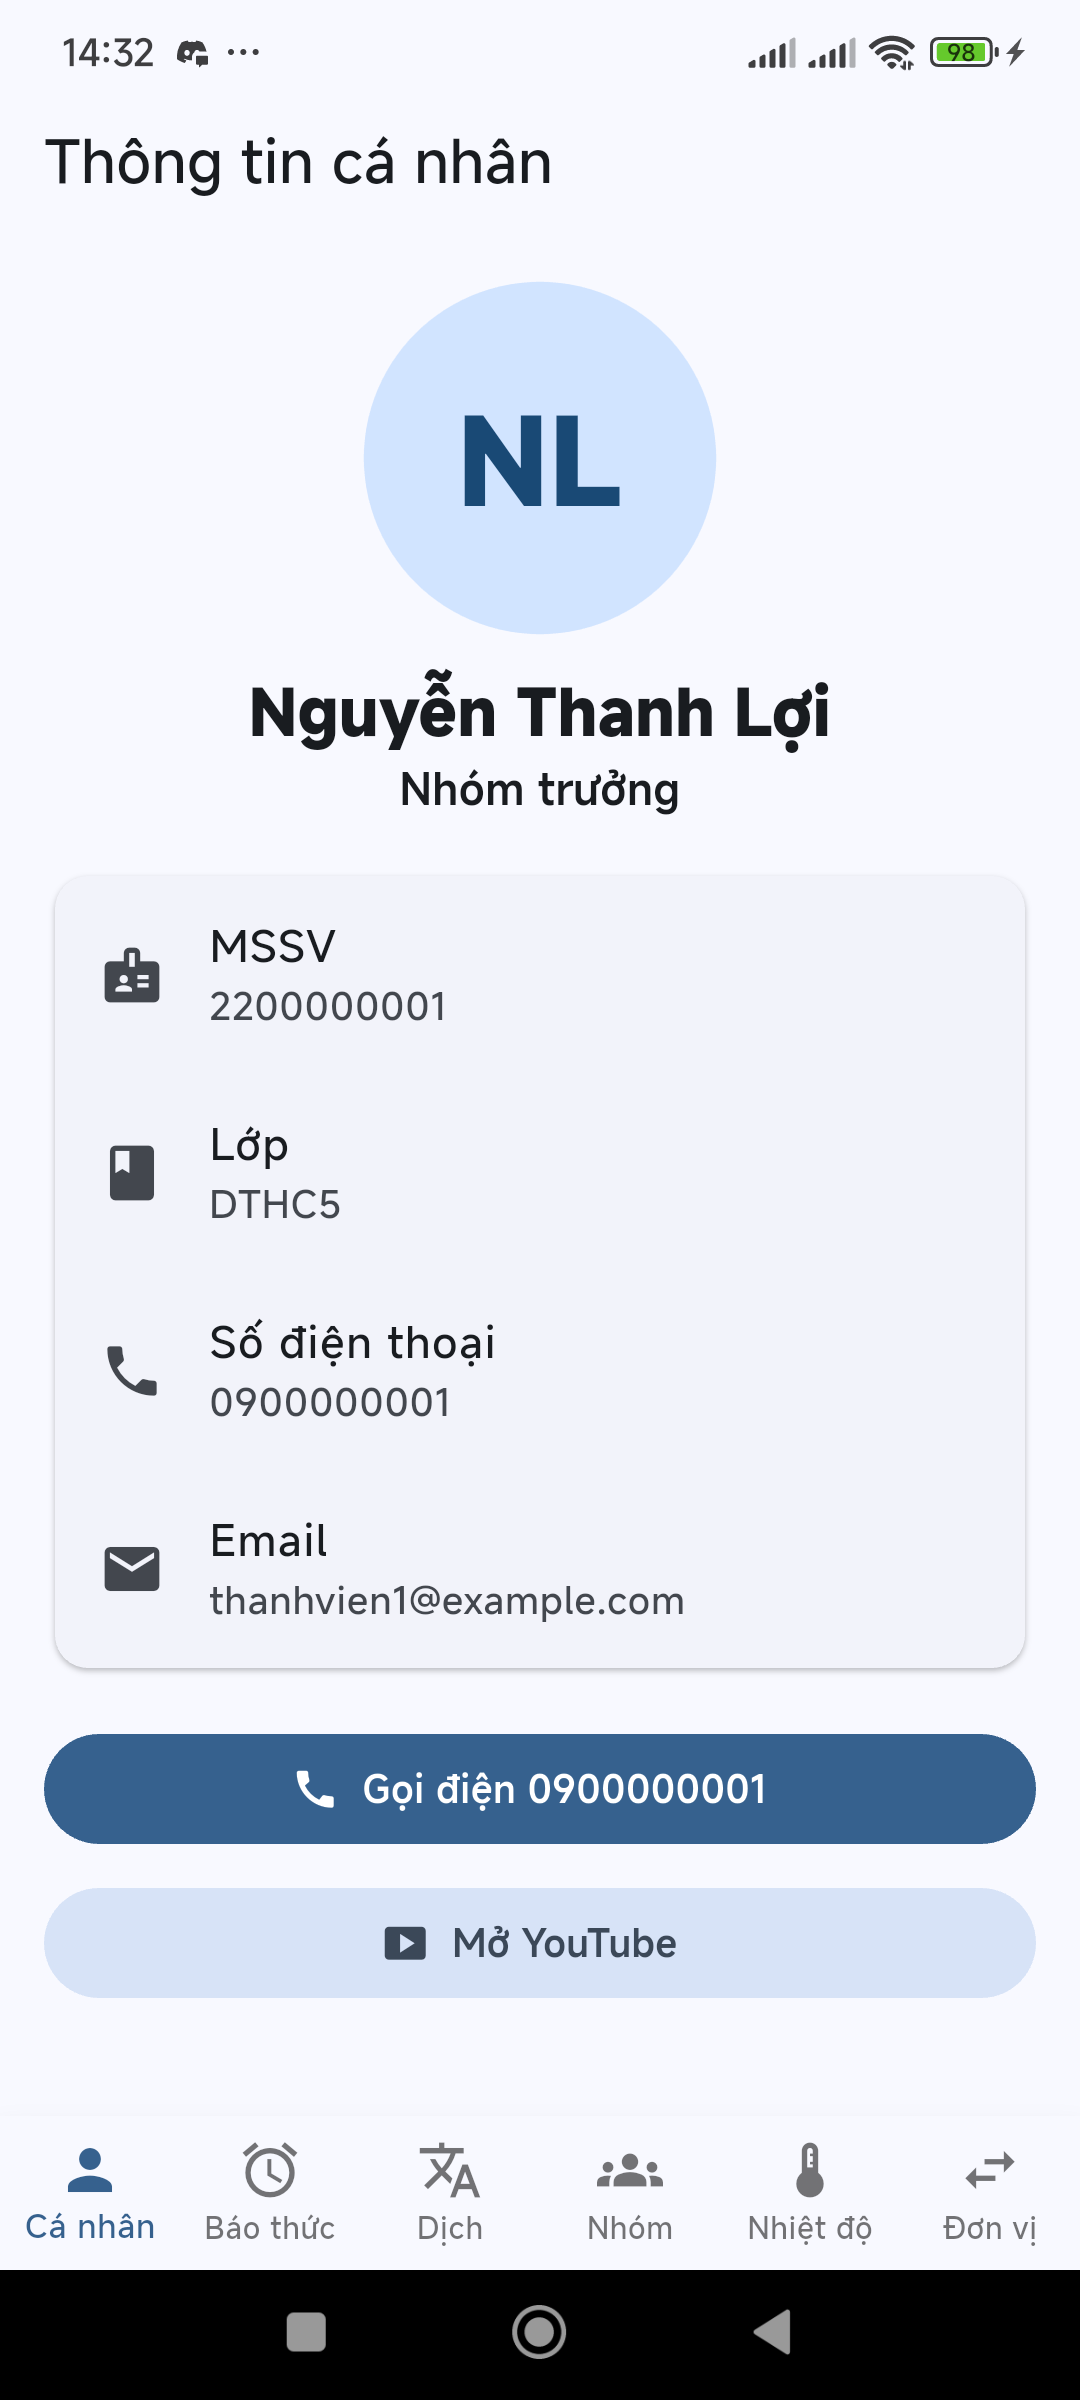
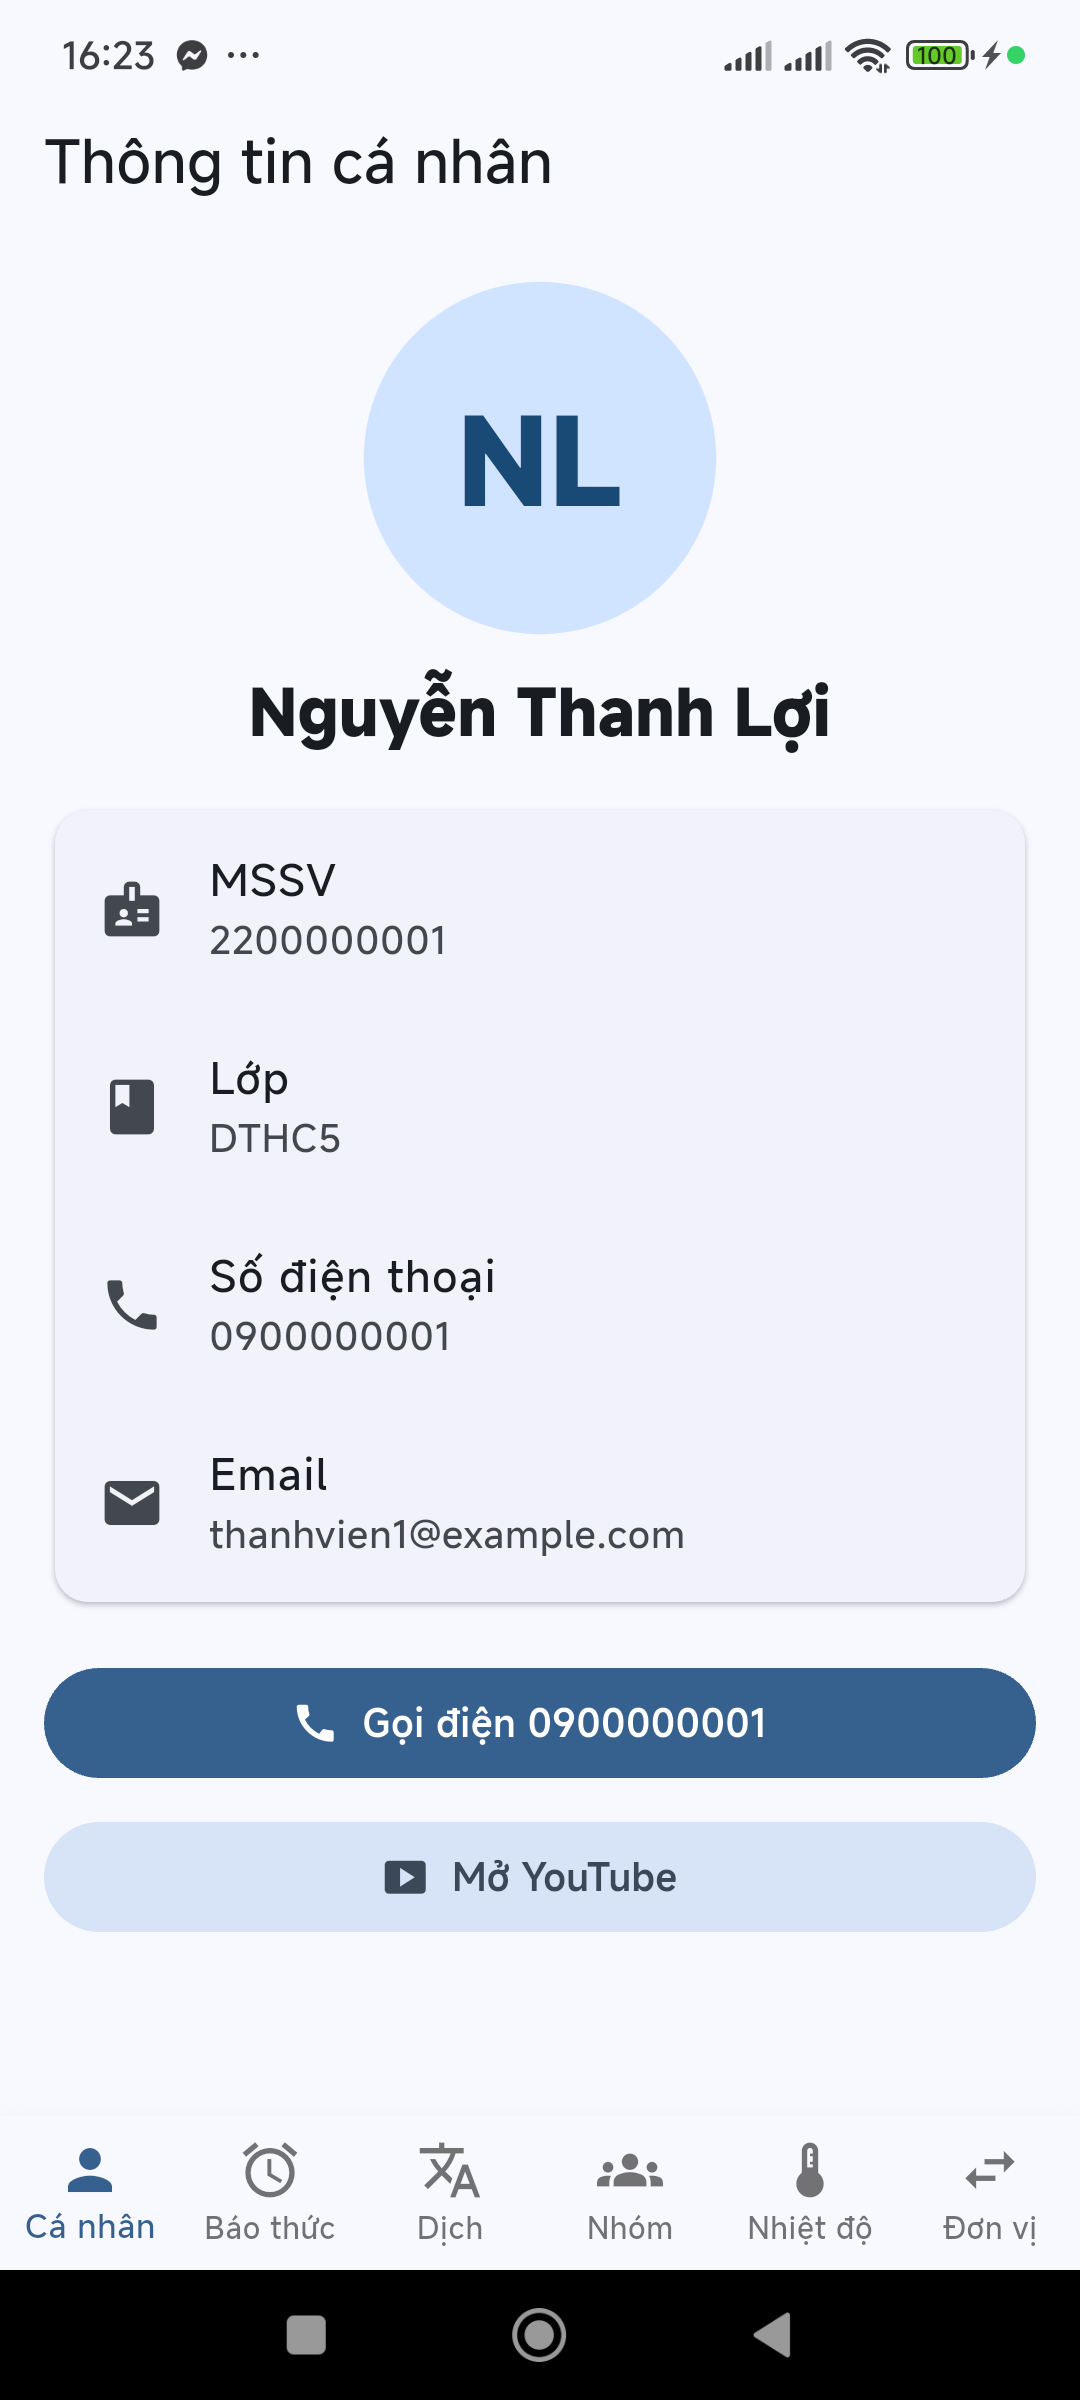
refactor: remove role (vai tro) field from app, tool and docs

diff --git a/tool/doi_thong_tin.dart b/tool/doi_thong_tin.dart
@@ -1,6 +1,6 @@
 // TOOL ĐỔI THÔNG TIN NGƯỜI NỘP BÀI
 //
-// Hỏi lần lượt từng trường (họ tên, MSSV, SĐT, email, lớp, vai trò, ảnh,
+// Hỏi lần lượt từng trường (họ tên, MSSV, SĐT, email, lớp, ảnh,
 // tên/email git), kiểm tra hợp lệ, rồi thay toàn bộ danh tính app:
 //   members.json -> lib/config/*.dart, tên app, applicationId, MainActivity...
 // Cuối cùng chạy `flutter analyze` để chắc chắn không lỗi.
@@ -132,7 +132,6 @@ Future<void> main(List<String> args) async {
   _row('SĐT', me['sdt']);
   _row('Email', me['email']);
   _row('Lớp', me['lop']);
-  _row('Vai trò', me['vai_tro']);
   _row(
     'Ảnh',
     photoSrc == null || photoSrc.isEmpty
@@ -161,6 +160,10 @@ Future<void> main(List<String> args) async {
     _installPhoto(photoSrc, me);
   }
   data['current'] = me['mssv'];
+  // Bỏ trường "vai_tro" của members.json bản cũ (đã không dùng nữa).
+  for (final m in members) {
+    m.remove('vai_tro');
+  }
   data['members'] = members;
   _write(_membersFile, '${const JsonEncoder.withIndent('  ').convert(data)}\n');
   stdout.writeln('  ✓ ghi members.json');
@@ -256,11 +259,6 @@ Map<String, dynamic> _askMember(
   out['lop'] = _ask(
     'Lớp',
     current: m['lop'] as String?,
-    check: checkNotEmpty,
-  ).trim();
-  out['vai_tro'] = _ask(
-    'Vai trò',
-    current: (m['vai_tro'] as String?) ?? 'Thành viên',
     check: checkNotEmpty,
   ).trim();
   return out;
@@ -400,7 +398,6 @@ List<String> _validateAll(Map<String, dynamic> n) {
   c('sdt', checkSdt);
   c('email', checkEmail);
   c('lop', checkNotEmpty);
-  c('vai_tro', checkNotEmpty);
   return errors;
 }
 
@@ -412,7 +409,6 @@ Map<String, dynamic> _normalize(Map<String, dynamic> n) {
     'sdt': normalizeSdt(n['sdt'] as String),
     'email': (n['email'] as String).trim(),
     'lop': (n['lop'] as String).trim(),
-    'vai_tro': (n['vai_tro'] as String).trim(),
     'anh': _existingPhoto(mssv) ?? '$_photoDir/$mssv.jpg',
   };
 }
@@ -475,9 +471,7 @@ void _printTeam(List<Map<String, dynamic>> members, String? current) {
   for (var i = 0; i < members.length; i++) {
     final m = members[i];
     final mark = m['mssv'] == current ? '  ← người nộp' : '';
-    stdout.writeln(
-      '  ${i + 1}. ${m['mssv']}  ${m['ho_ten']}  (${m['vai_tro']})$mark',
-    );
+    stdout.writeln('  ${i + 1}. ${m['mssv']}  ${m['ho_ten']}$mark');
   }
 }
 

diff --git a/tool/list_packages.dart b/tool/list_packages.dart
@@ -43,7 +43,9 @@ void main() {
     final link = version == 'SDK'
         ? '`$name`'
         : '[`$name`](https://pub.dev/packages/$name)';
-    final usage = _usage[name] ?? '_(chưa ghi — thêm vào `_usage` trong tool/list_packages.dart)_';
+    final usage =
+        _usage[name] ??
+        '_(chưa ghi — thêm vào `_usage` trong tool/list_packages.dart)_';
     rows.writeln('| $link | $version | $usage | $kind |');
   }
 
@@ -54,7 +56,8 @@ void main() {
     add(d, 'dev_dependency');
   }
 
-  final block = '$_start\n'
+  final block =
+      '$_start\n'
       '<!-- Sinh tự động bởi `dart run tool/list_packages.dart`, đừng sửa tay. -->\n'
       '${rows.toString().trimRight()}\n'
       '$_end';
@@ -68,8 +71,10 @@ void main() {
   }
   readme.writeAsStringSync(text);
   stdout.writeln(rows);
-  stdout.writeln('✓ Đã cập nhật bảng package trong README.md '
-      '(${deps.length} dependency, ${devDeps.length} dev_dependency).');
+  stdout.writeln(
+    '✓ Đã cập nhật bảng package trong README.md '
+    '(${deps.length} dependency, ${devDeps.length} dev_dependency).',
+  );
 }
 
 /// Tên các package trực tiếp trong mục [section] của pubspec.yaml.

diff --git a/tool/switch_member.dart b/tool/switch_member.dart
@@ -37,7 +37,7 @@ void main(List<String> args) async {
     exit(1);
   }
 
-  for (final key in ['ho_ten', 'mssv', 'sdt', 'email', 'lop', 'vai_tro']) {
+  for (final key in ['ho_ten', 'mssv', 'sdt', 'email', 'lop']) {
     if ((target[key] ?? '').toString().trim().isEmpty) {
       stderr.writeln(
         'Thành viên $mssv thiếu trường "$key" trong $_membersFile.',
@@ -230,7 +230,6 @@ $indent  mssv: ${_dartStr(m['mssv'])},
 $indent  sdt: ${_dartStr(m['sdt'])},
 $indent  email: ${_dartStr(m['email'])},
 $indent  lop: ${_dartStr(m['lop'])},
-$indent  vaiTro: ${_dartStr(m['vai_tro'])},
 $indent  anh: ${hasPhoto ? _dartStr(anh) : 'null'},
 $indent)''';
 }

diff --git a/lib/config/team_members.dart b/lib/config/team_members.dart
@@ -11,7 +11,6 @@ const teamMembers = <Member>[
     sdt: '0900000001',
     email: 'thanhvien1@example.com',
     lop: 'DTHC5',
-    vaiTro: 'Nhóm trưởng',
     anh: null,
   ),
   Member(
@@ -20,7 +19,6 @@ const teamMembers = <Member>[
     sdt: '0900000002',
     email: 'thanhvien2@example.com',
     lop: 'DTHC5',
-    vaiTro: 'Thành viên',
     anh: null,
   ),
   Member(
@@ -29,7 +27,6 @@ const teamMembers = <Member>[
     sdt: '0900000003',
     email: 'thanhvien3@example.com',
     lop: 'DTHC5',
-    vaiTro: 'Thành viên',
     anh: null,
   ),
 ];

diff --git a/lib/features/team/team_screen.dart b/lib/features/team/team_screen.dart
@@ -101,12 +101,9 @@ class _MemberPage extends StatelessWidget {
                   fontWeight: FontWeight.bold,
                 ),
               ),
-              const SizedBox(height: 4),
-              Chip(label: Text(member.vaiTro)),
               const Divider(height: 32),
               _row(Icons.badge, 'MSSV', member.mssv),
               _row(Icons.class_, 'Lớp', member.lop),
-              _row(Icons.work_outline, 'Vai trò', member.vaiTro),
             ],
           ),
         ),

diff --git a/lib/config/member.dart b/lib/config/member.dart
@@ -7,7 +7,6 @@ class Member {
   final String sdt;
   final String email;
   final String lop;
-  final String vaiTro;
 
   /// Đường dẫn asset ảnh, null nếu file ảnh chưa có trong assets/members/.
   final String? anh;
@@ -18,7 +17,6 @@ class Member {
     required this.sdt,
     required this.email,
     required this.lop,
-    required this.vaiTro,
     this.anh,
   });
 

diff --git a/lib/features/profile/profile_screen.dart b/lib/features/profile/profile_screen.dart
@@ -74,11 +74,6 @@ class ProfileScreen extends StatelessWidget {
               fontWeight: FontWeight.bold,
             ),
           ),
-          Text(
-            m.vaiTro,
-            textAlign: TextAlign.center,
-            style: theme.textTheme.titleMedium,
-          ),
           const SizedBox(height: 16),
           Card(
             child: Column(

diff --git a/lib/config/current_member.dart b/lib/config/current_member.dart
@@ -10,6 +10,5 @@ const currentMember = Member(
   sdt: '0900000001',
   email: 'thanhvien1@example.com',
   lop: 'DTHC5',
-  vaiTro: 'Nhóm trưởng',
   anh: null,
 );

diff --git a/docs/HUONG_DAN_SU_DUNG.md b/docs/HUONG_DAN_SU_DUNG.md
@@ -18,7 +18,7 @@ Thanh dưới cùng có 6 tab: **Cá nhân · Báo thức · Dịch · Nhóm · 
 
 <img src="images/01_ca_nhan.png" width="260" align="right">
 
-- Hiện họ tên, vai trò, MSSV, lớp, SĐT, email của **người nộp bài**. Dữ liệu lấy từ `members.json` qua file sinh tự động `lib/config/current_member.dart`.
+- Hiện họ tên, MSSV, lớp, SĐT, email của **người nộp bài**. Dữ liệu lấy từ `members.json` qua file sinh tự động `lib/config/current_member.dart`.
 - **Gọi điện 09xx…**: mở màn hình quay số với số đã điền sẵn. Bấm nút gọi xanh của điện thoại để gọi thật.
 - **Mở YouTube**: mở app YouTube. Máy không có app thì mở youtube.com bằng trình duyệt.
 - Bấm vào dòng **Email**: mở app email, gửi tới địa chỉ đó.
@@ -115,7 +115,7 @@ Bấm biểu tượng **camera** ở góc phải trên cùng của tab Dịch. H
 
 <img src="images/09_nhom.png" width="260" align="right">
 
-- **Lướt ngang** để xem từng thành viên: ảnh, họ tên, MSSV, lớp, vai trò.
+- **Lướt ngang** để xem từng thành viên: ảnh, họ tên, MSSV, lớp.
 - Chấm tròn phía dưới cho biết đang ở trang mấy. Bấm vào chấm để nhảy thẳng tới trang đó.
 - Danh sách lấy từ **toàn bộ** `members.json`, không phụ thuộc ai là người nộp.
 
@@ -133,7 +133,7 @@ Mỗi người nộp bài riêng, nên app phải mang **tên, MSSV, SĐT, ảnh
 
 ### Bước 1 — Chuẩn bị
 
-- Họ tên **có dấu**, MSSV, SĐT, email, lớp, vai trò (vd *Thành viên*).
+- Họ tên **có dấu**, MSSV, SĐT, email, lớp.
 - 1 ảnh chân dung `.jpg` hoặc `.png`, dưới 5MB. Nên dùng ảnh vuông.
 - Đã chạy `flutter pub get` ít nhất 1 lần.
 
@@ -156,7 +156,6 @@ Họ và tên (có dấu): Nguyễn Văn A
 Số điện thoại: 0912 345 678
 Email: nguyenvana@gmail.com
 Lớp: DTHC5
-Vai trò [Thành viên]:
 Chưa có ảnh (tab Nhóm sẽ hiện chữ cái đầu).
 Đường dẫn file ảnh .jpg/.png (Enter = bỏ qua): D:\anh\chan_dung.jpg
 Đặt tên/email git cho repo này (commit sẽ mang tên bạn)? [Y/n]: y
@@ -227,7 +226,6 @@ Mở `thong_tin.json` bằng Notepad / VS Code, điền thông tin (lưu dạng 
     "sdt": "0912345678",
     "email": "nguyenvana@gmail.com",
     "lop": "DTHC5",
-    "vai_tro": "Thành viên",
     "anh_file": "D:/anh/chan_dung.jpg"
   },
   "git": { "name": "NguyenVanA", "email": "nguyenvana@gmail.com" },

diff --git a/README.md b/README.md
@@ -48,7 +48,7 @@ Chạy test: `flutter test` · Kiểm tra code: `flutter analyze`
 
 Mỗi người nộp bài riêng nên phải đổi app thành tên mình. **Không sửa tay trong code.**
 
-**a. Chuẩn bị thông tin:** họ tên có dấu, MSSV, SĐT, email, lớp, vai trò, 1 ảnh chân dung (.jpg/.png, dưới 5MB).
+**a. Chuẩn bị thông tin:** họ tên có dấu, MSSV, SĐT, email, lớp, 1 ảnh chân dung (.jpg/.png, dưới 5MB).
 
 **b. Chạy tool** — bấm đúp `doi_thong_tin.bat` ở thư mục gốc, hoặc:
 
@@ -74,7 +74,6 @@ Mẫu 1 entry trong `members.json` (tool tự ghi, không cần sửa tay):
   "sdt": "0900000009",
   "email": "nguyenvana@example.com",
   "lop": "DTHC5",
-  "vai_tro": "Thành viên",
   "anh": "assets/members/2200000009.jpg"
 }
 ```

diff --git a/tool/README.md b/tool/README.md
@@ -3,7 +3,7 @@
 ## Đổi thông tin người nộp bài (dùng cái này)
 
 **Cách 1 – bấm đúp `doi_thong_tin.bat`** ở thư mục gốc (hoặc chạy `dart run tool/doi_thong_tin.dart`).
-Tool hỏi lần lượt: MSSV, họ tên, SĐT, email, lớp, vai trò, file ảnh, tên/email git.
+Tool hỏi lần lượt: MSSV, họ tên, SĐT, email, lớp, file ảnh, tên/email git.
 Enter = giữ giá trị trong `[ ]`. Nhập sai sẽ bị báo lỗi và hỏi lại.
 
 **Cách 2 – điền file rồi chạy** (khi terminal không gõ được tiếng Việt):
